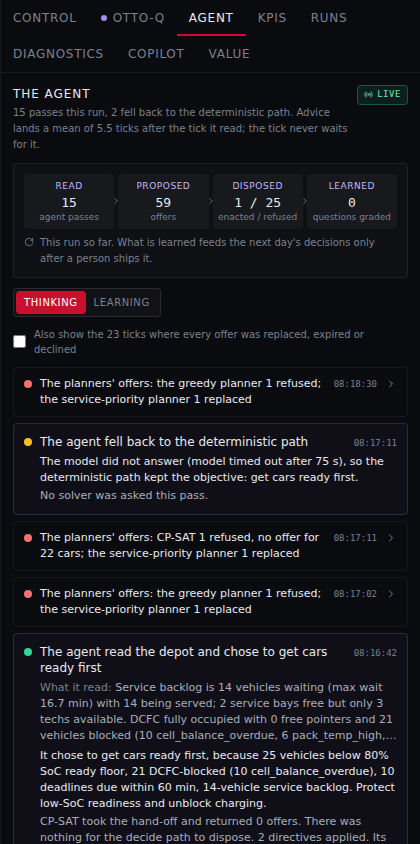
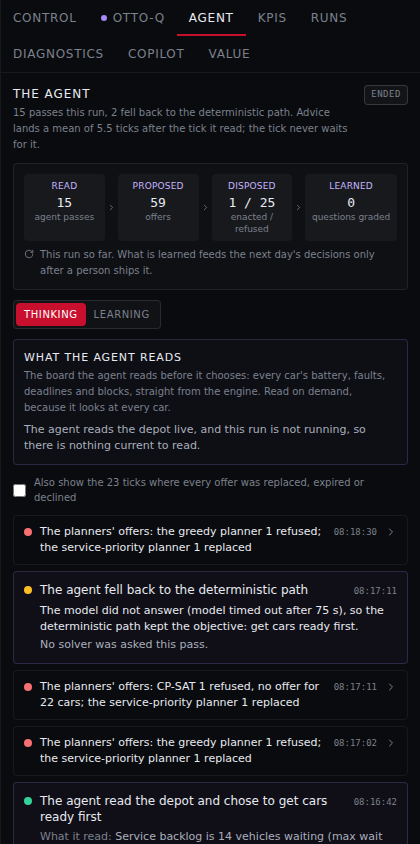
PR screenshots: the 3D stack, its replay, and the Agent tab
Every screenshot is from scripts/tabShots.mjs on the dev server, fed the
read-only capture of run 1ccad49b. Every other Supabase request was
aborted, and 0 writes were attempted.

- 3D stack at 420 and 320 px, and the phone.
- A zoom per plate; hover, tap and turn.
- A four-frame replay strip and a strip of records arriving.
- The Agent tab. Its reads card is a labelled demo: status stubbed to
  running, fed the real frame.
- The 2D-era OTTO-Q shot is kept as the no-WebGL fallback
  (after-ottoq-flat-420.png).
- The stack shots are JPEG to keep the folder at 1.5 MB.

Design note: the cost figures are re-measured with the script's probe
(53 draw calls, 21,297 triangles, 0 frames in a 4 s quiet stretch).
Tidy: ReplayBar sits above the WebGL helper; the record playing is
computed once.

Claude-Session: https://claude.ai/code/session_016yiqtKUL5Fkekhq7h5ED3r

Changed region(s): [[0.031, 0.2156, 0.9595, 1.0], [0.8667, 0.0924, 0.9595, 0.1232]]

diff --git a/src/components/tabs/TwinOttoQTab.tsx b/src/components/tabs/TwinOttoQTab.tsx
@@ -436,8 +436,6 @@ function PickedCard({ picked, onClose, onPick, rowByKey, dispByKey, passByKey, c
   );
 }
 
-/** WebGL once per page: the stack needs it; without it the flat funnel stands in. */
-let webglOk: boolean | null = null;
 // ── replay: records already written, played through the stack again when asked ──
 function ReplayBar({ replay, at, count, line, onStart, onStop }: {
   replay: StackReplay | null; at: number; count: number; line: string | null; onStart: () => void; onStop: () => void;
@@ -474,6 +472,8 @@ function ReplayBar({ replay, at, count, line, onStart, onStop }: {
   );
 }
 
+/** WebGL once per page: the stack needs it; without it the flat funnel stands in. */
+let webglOk: boolean | null = null;
 function hasWebGL(): boolean {
   if (webglOk != null) return webglOk;
   try {
@@ -614,7 +614,8 @@ export function TwinOttoQTab() {
     return () => window.clearInterval(iv);
   }, [replay]);
   useEffect(() => { setReplay(null); setReplayAt(-1); }, [simRunId]);
-  const replayLine = replay && replayAt >= 0 ? describe(replay.events[Math.min(replayAt, replay.events.length - 1)].kind, replay.events[Math.min(replayAt, replay.events.length - 1)].key) : null;
+  const playing = replay && replayAt >= 0 ? replay.events[Math.min(replayAt, replay.events.length - 1)] : null;
+  const replayLine = playing ? describe(playing.kind, playing.key) : null;
 
   if (!simRunId) {
     return (

diff --git a/docs/OTTO-Q-FUNNEL-AND-AGENT-TABS.md b/docs/OTTO-Q-FUNNEL-AND-AGENT-TABS.md
@@ -227,11 +227,11 @@ renders nothing while the page is hidden.
 ## Performance rules
 
 - **The stack renders only while something moves** (react-three-fiber `frameloop="demand"`): an event's animation, a
-  car gliding, the zoom, a drag. Measured on the fixture: the frame counter stopped (59 frames from second 16 to second
-  20 of a quiet stretch), and a poll with nothing new costs a couple of frames. With `prefers-reduced-motion` no bead
-  plays and cars jump to their zone.
-- **53 draw calls and 21k triangles per frame, bloom passes included** (was 92 before the ports, posts and collars were
-  instanced). Every repeated object is one instanced mesh: spheres (≤ 40), bars (≤ 48), tiles (≤ 72), pucks (≤ 170),
+  car gliding, the zoom, a drag, a replay. Measured on the fixture by `scripts/tabShots.mjs` (the stack's dev-only
+  probe): a 4-second quiet stretch rendered 0 frames. With `prefers-reduced-motion` no bead plays, cars jump to their
+  zone, and a replay only brings its records back one at a time.
+- **53 draw calls and 21,297 triangles per frame, bloom passes included** (was 92 draw calls before the ports, posts and
+  collars were instanced). Every repeated object is one instanced mesh: spheres (≤ 40), bars (≤ 48), tiles (≤ 72), pucks (≤ 170),
   beads and flashes (one point cloud).
 - The frame is fitted to the stack every frame, so it fills the panel at 420, 360 and 320 px and in the phone sheet.
 - Device pixel ratio follows the app's render tier (`qualityStore`): up to 1.75 on High, 1.5 on Medium, 1 on Low; Low
